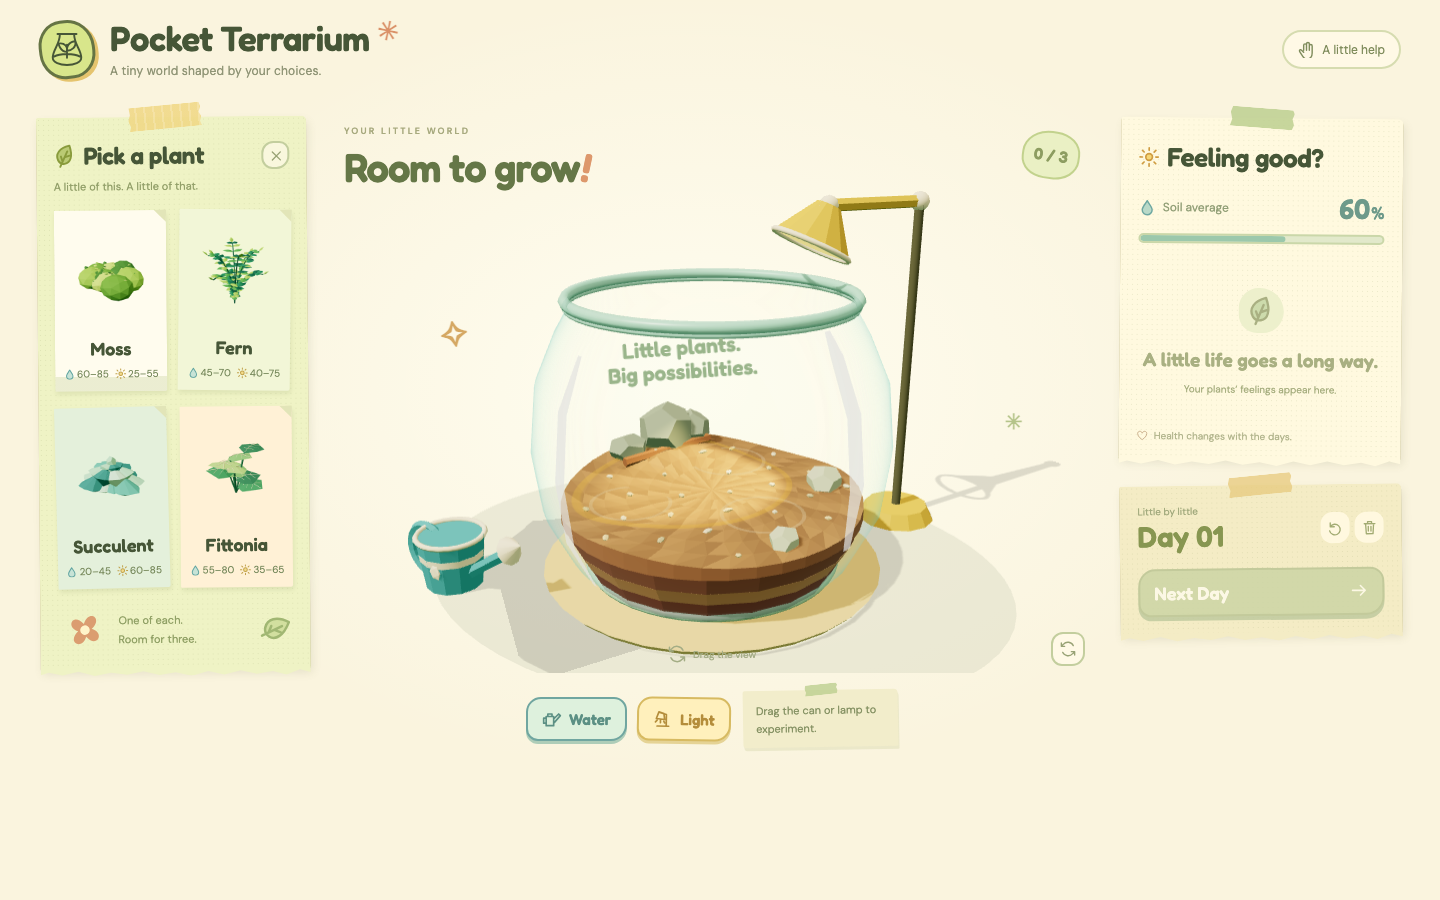
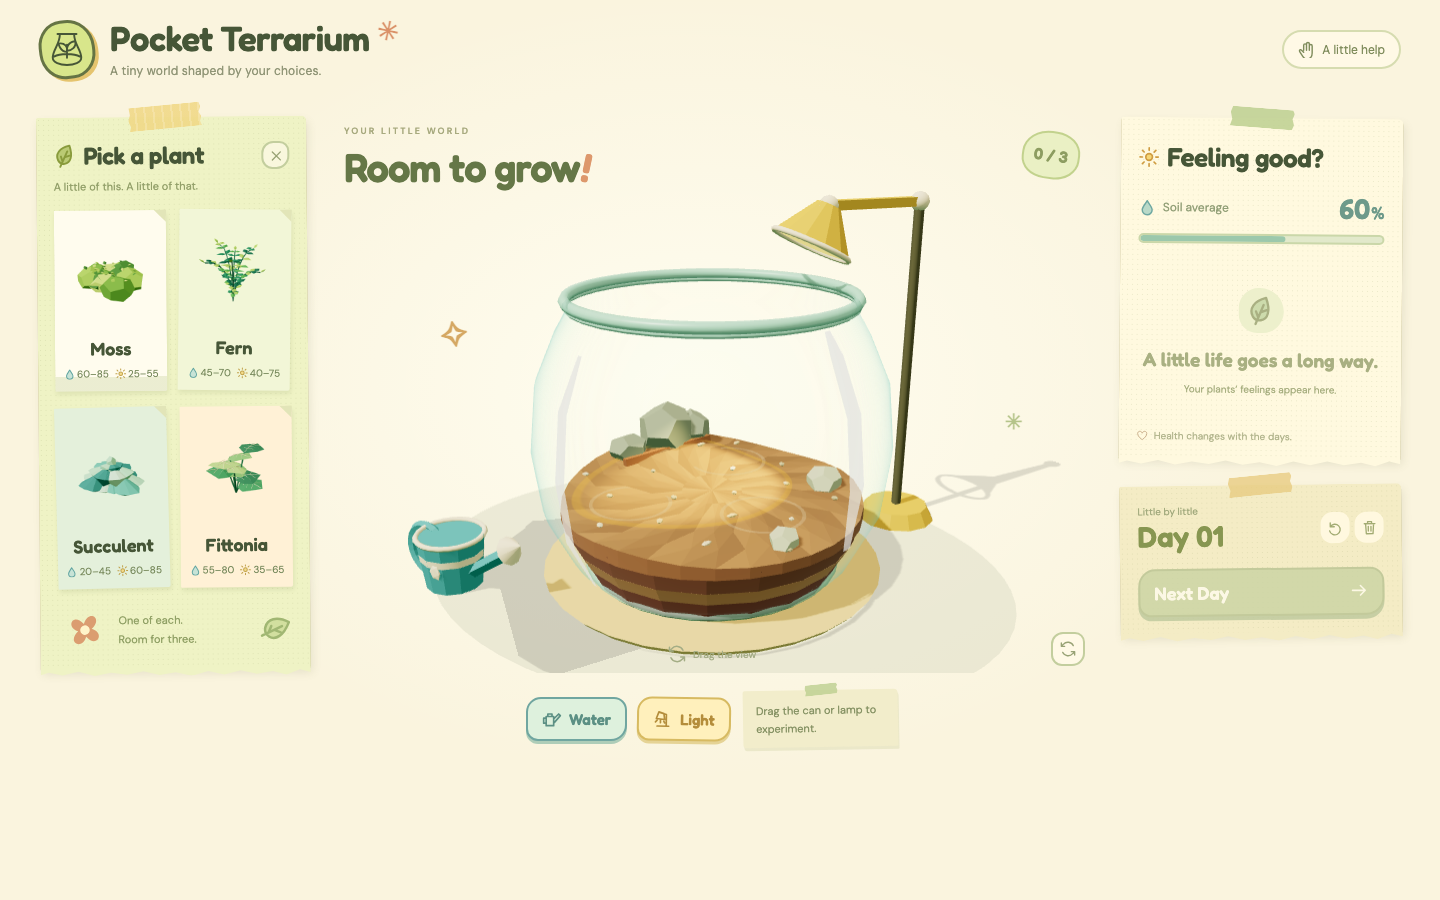
fix: preserve Retina clarity and simplify miniature geometry

diff --git a/src/scene/plantFactory.js b/src/scene/plantFactory.js
@@ -8,9 +8,9 @@ const palettes = {
 };
 const up = new THREE.Vector3(0, 1, 0),
   axis = new THREE.Vector3(1, 0, 0);
-const sphere = new THREE.IcosahedronGeometry(1, 1),
+const sphere = new THREE.DodecahedronGeometry(1, 0),
   smallStone = new THREE.DodecahedronGeometry(1, 0),
-  stemGeometry = new THREE.CylinderGeometry(1, 1, 1, 6);
+  stemGeometry = new THREE.CylinderGeometry(1, 1, 1, 4);
 // A closed, thick blade with a raised midrib. The root is at x=0, tip at x=1.
 function bladeGeometry(wide = false) {
   const w = wide ? 0.35 : 0.21;
@@ -24,9 +24,12 @@ function bladeGeometry(wide = false) {
     [0.45, wide ? 0.105 : 0.15, 0],
     [0.45, -0.07, 0],
   ];
+  // Thin fern blades need fewer outline vertices than broad Fittonia leaves.
+  if (!wide) points.splice(1, 5, [0.5, 0.035, -w], [1, 0, 0], [0.5, 0.035, w]);
+  const ring = points.length - 2;
   const faces = [];
-  for (let i = 0; i < 6; i++) {
-    faces.push(6, (i + 1) % 6, i, 7, i, (i + 1) % 6);
+  for (let i = 0; i < ring; i++) {
+    faces.push(ring, (i + 1) % ring, i, ring + 1, i, (i + 1) % ring);
   }
   const positions = faces.flatMap((i) => points[i]);
   const geometry = new THREE.BufferGeometry();
@@ -147,9 +150,9 @@ export function createPlant(species, { ghost = false } = {}) {
       }
     }
   } else if (species === "fern") {
-    for (let i = 0; i < 8; i++) {
+    for (let i = 0; i < 6; i++) {
       const frond = new THREE.Group();
-      frond.rotation.y = (i * Math.PI * 2) / 8 + 0.2;
+      frond.rotation.y = (i * Math.PI * 2) / 6 + 0.2;
       root.add(frond);
       const h = [1.1, 1.45, 1.25, 1.58, 1.28, 1.42, 1.1, 1.52][i],
         reach = [0.73, 0.57, 0.76, 0.45, 0.7, 0.62, 0.8, 0.5][i];
@@ -159,9 +162,9 @@ export function createPlant(species, { ghost = false } = {}) {
         new THREE.Vector3(reach * 0.45, h * 1.04, 0),
         new THREE.Vector3(reach, h, 0),
       );
-      mesh(new THREE.TubeGeometry(curve, 12, 0.012, 5, false), stemMat, frond);
-      for (let j = 1; j <= 8; j++) {
-        const t = j / 9,
+      mesh(new THREE.TubeGeometry(curve, 8, 0.012, 4, false), stemMat, frond);
+      for (let j = 1; j <= 7; j++) {
+        const t = j / 8,
           p = curve.getPoint(t),
           length = 0.27 * Math.sin(Math.PI * t) ** 0.7 + 0.025;
         for (const side of [-1, 1]) {
@@ -173,7 +176,7 @@ export function createPlant(species, { ghost = false } = {}) {
             0.23,
             0,
             i + j,
-            i >= 6 && j <= 2,
+            i >= 5 && j <= 2,
           );
           pivot.quaternion.setFromUnitVectors(
             axis,
@@ -247,9 +250,9 @@ export function createPlant(species, { ghost = false } = {}) {
         mesh(
           new THREE.TubeGeometry(
             new THREE.CatmullRomCurve3(ridge),
-            8,
-            0.005,
             4,
+            0.005,
+            3,
             false,
           ),
           vein,

diff --git a/src/ui/uiController.js b/src/ui/uiController.js
@@ -18,7 +18,7 @@ export function createUI(root) {
      "",
    )}</div><div class="collection-bottom"><span class="doodle-flower">${flower}</span><span>One of each.<br>Room for three.</span><span class="little-sprout">${icon("leaf")}</span></div></aside><button id="collection-open" class="collection-open" type="button" aria-label="Open plants and preferences" aria-controls="plant-collection" aria-expanded="true" hidden>${icon("leaf")}Plants</button></div>
  <section class="terrarium-column" aria-labelledby="terrarium-title"><div class="scene-heading"><div><span class="small-kicker">YOUR LITTLE WORLD</span><h2 id="terrarium-title">Room to grow<span>!</span></h2></div><span id="plant-count" class="count-sticker">0 / 3</span></div>
- <div id="scene-container" class="scene-container"><span class="scene-spark spark-one" aria-hidden="true">✧</span><span class="scene-spark spark-two" aria-hidden="true">✳</span><div id="placement-preview" class="placement-preview" role="status" hidden></div><div id="scene-empty" class="scene-empty"><p>Little plants.<br>Big possibilities.</p></div><button id="camera-reset" class="camera-reset icon-button" type="button" title="Reset view" aria-label="Reset view">${icon("rotate")}</button><span class="orbit-hint">${icon("rotate")}Drag the view</span><div id="scene-loading" class="scene-loading">Making a little room for nature…</div></div>
+ <div id="scene-container" class="scene-container"><span class="scene-spark spark-one" aria-hidden="true">✧</span><span class="scene-spark spark-two" aria-hidden="true">✳</span><div id="placement-preview" class="placement-preview" role="status" hidden></div><button id="camera-reset" class="camera-reset icon-button" type="button" title="Reset view" aria-label="Reset view">${icon("rotate")}</button><span class="orbit-hint">${icon("rotate")}Drag the view</span><div id="scene-loading" class="scene-loading">Making a little room for nature…</div></div>
  <div class="tool-dock"><div class="tool-buttons"><button id="water-button" type="button" class="tool-button water-tool" aria-pressed="false">${icon("can")}Water</button><button id="lamp-button" type="button" class="tool-button lamp-tool" aria-pressed="false">${icon("lamp")}Light</button></div><p id="tool-hint">Drag the can or lamp to experiment.</p><button id="tool-close" class="icon-button" type="button" title="Put tool away" aria-label="Put tool away" hidden>${icon("close")}</button></div>
  <div id="lamp-controls" class="lamp-controls" hidden>${[
    ["azimuth", "Orbit", -180, 180, 1],
@@ -79,7 +79,6 @@ export function createUI(root) {
       "aria-valuenow",
       Math.round(state.soilMoisture),
     );
-    $("#scene-empty").hidden = state.plants.length > 0 || !!selected || !!tool;
     $("#next-day").disabled = state.plants.length < 2 || busy;
     $("#next-day").title =
       state.plants.length < 2 ? "Add two plants to begin" : "";

diff --git a/src/scene/createScene.js b/src/scene/createScene.js
@@ -18,7 +18,7 @@ export function createScene(container, getState) {
       alpha: true,
       powerPreference: "high-performance",
     });
-  renderer.setPixelRatio(Math.min(devicePixelRatio, 1.25));
+  renderer.setPixelRatio(Math.min(devicePixelRatio, 2));
   renderer.setClearColor(0xf9f5dc, 0);
   renderer.shadowMap.enabled = true;
   renderer.shadowMap.autoUpdate = false;
@@ -64,7 +64,7 @@ export function createScene(container, getState) {
   key.shadow.bias = -0.0002;
   scene.add(key);
   const ground = new THREE.Mesh(
-    new THREE.PlaneGeometry(100, 100),
+    new THREE.PlaneGeometry(8, 8),
     new THREE.ShadowMaterial({ opacity: 0.12 }),
   );
   ground.rotation.x = -Math.PI / 2;
@@ -96,8 +96,7 @@ export function createScene(container, getState) {
     frame = 0,
     until = 0,
     alive = true,
-    last = performance.now(),
-    recentFrameTimes = [];
+    last = performance.now();
   const reducedMotion = matchMedia("(prefers-reduced-motion: reduce)").matches;
   const target = new THREE.Vector3();
   function invalidate(duration = 350) {
@@ -150,28 +149,7 @@ export function createScene(container, getState) {
     frame = 0;
     if (!alive || document.hidden) return;
     const frameTime = now - last;
-    // Reduce only the 3D drawing resolution when sustained frames are slow.
-    // Long idle/background gaps are excluded; DOM text remains at full resolution.
-    if (frameTime < 200 && frameTime > 0) {
-      recentFrameTimes.push(frameTime);
-      if (recentFrameTimes.length >= 12) {
-        const average =
-          recentFrameTimes.reduce((sum, t) => sum + t, 0) /
-          recentFrameTimes.length;
-        const ratio = renderer.getPixelRatio();
-        const nextRatio =
-          average > 45
-            ? Math.min(ratio, 0.85)
-            : average > 28
-              ? Math.min(ratio, 1)
-              : ratio;
-        if (nextRatio !== ratio) {
-          renderer.setPixelRatio(nextRatio);
-          resize();
-        }
-        recentFrameTimes.length = 0;
-      }
-    }
+    // Keep drawing resolution stable, including during slow frames and gestures.
     const dt = Math.min(frameTime / 1000, 0.05),
       alpha = reducedMotion ? 1 : 1 - Math.exp(-dt * 10);
     last = now;

diff --git a/src/scene/terrarium.js b/src/scene/terrarium.js
@@ -48,7 +48,7 @@ export function createTerrarium(scene) {
   );
   const decorations = [];
   const gravel = [mat(0xe6c78e), mat(0xc3b384), mat(0xebd8ae)];
-  for (let i = 0; i < 27; i++) {
+  for (let i = 0; i < 15; i++) {
     const a = i * 2.39996,
       r = 0.92 + (i % 3) * 0.07,
       item = add(new THREE.DodecahedronGeometry(1, 0), gravel[i % 3], [
@@ -61,8 +61,8 @@ export function createTerrarium(scene) {
     decorations.push(item);
   }
   const points = [[0, surfaceHeight(0, 0), 0]];
-  const radial = 7,
-    segments = 40;
+  const radial = 5,
+    segments = 32;
   for (let r = 1; r <= radial; r++)
     for (let j = 0; j < segments; j++) {
       const a = (j / segments) * Math.PI * 2 + (r % 2) * 0.028,
@@ -175,9 +175,9 @@ export function createTerrarium(scene) {
       twigMat,
     ),
   );
-  for (let i = 0; i < 28; i++) {
+  for (let i = 0; i < 18; i++) {
     const a = i * 2.39996,
-      r = Math.sqrt((i + 0.5) / 28) * 1.18,
+      r = Math.sqrt((i + 0.5) / 18) * 1.18,
       x = Math.cos(a) * r,
       z = Math.sin(a) * r;
     const pebble = add(new THREE.IcosahedronGeometry(1, 0), gravel[i % 3], [
@@ -229,7 +229,12 @@ export function createTerrarium(scene) {
     [1.135, 2.26, 0.022],
     [1.045, 0.1, 0.032],
   ]) {
-    const item = add(new THREE.TorusGeometry(r, t, 6, 48), rimMat, [0, y, 0]);
+    // Keep the visible opening smooth; simplify the secondary and bottom rings.
+    const item = add(
+      new THREE.TorusGeometry(r, t, y === 2.31 ? 6 : 4, y === 2.31 ? 48 : 32),
+      rimMat,
+      [0, y, 0],
+    );
     item.rotation.x = Math.PI / 2;
     item.castShadow = false;
     item.renderOrder = 7;

diff --git a/src/styles/main.css b/src/styles/main.css
@@ -479,21 +479,6 @@ h3 {
   font-size: 22px;
   color: #b5c48a;
 }
-.scene-empty {
-  position: absolute;
-  z-index: 2;
-  left: 46%;
-  top: 35%;
-  text-align: center;
-  transform: translate(-50%, -50%) rotate(-4deg);
-  pointer-events: none;
-}
-.scene-empty p {
-  font-family: Fredoka, sans-serif;
-  font-size: 21px;
-  line-height: 1.15;
-  color: #9ab58b;
-}
 .orbit-hint {
   position: absolute;
   bottom: 10px;
@@ -1322,13 +1307,6 @@ dialog p {
   }
   .scene-container {
     height: 340px;
-  }
-  .scene-empty p {
-    font-size: 17px;
-  }
-  .scene-empty {
-    top: 38%;
-    left: 45%;
   }
   .spark-one {
     left: 4%;

diff --git a/docs/performance.md b/docs/performance.md
@@ -1,18 +1,20 @@
-# Paper desk performance check
+# Rendering clarity and performance
 
-Recorded locally on 2026-10-20 with headless Playwright Chromium, a 1440 × 900 viewport, device scale factor 2, and Moss, Fittonia and Fern. Both versions rendered 12,854 triangles. The fitted UI also changes canvas dimensions, so these numbers measure the complete revision rather than an isolated GPU microbenchmark.
+The current revision keeps the canvas at the device pixel ratio, capped at 2, during gestures and slow frames. The earlier adaptive resolution policy caused visible blur and has been removed. Instead, small blades, stems, veins, soil subdivisions, gravel and secondary rims were simplified. The main glass lip and curved wall keep their smooth outlines. The empty-jar slogan was removed.
 
-| Diagnostic | Before | After |
-| --- | ---: | ---: |
-| Main-view draw calls | 375 | 85 |
-| Triangles | 12,854 | 12,854 |
-| Canvas pixel ratio | 1.75 | 1 (adapted from cap 1.25) |
-| Drawing-buffer pixels | 1,500,150 | 493,506 |
-| Median animation-frame interval | 66.6 ms | 32.4 ms |
-| 95th percentile frame interval | 67.0 ms | 33.4 ms |
+Recorded locally on 2026-10-20 with headless Playwright Chromium, a 1440 × 900 viewport, device scale factor 2, and Moss, Fittonia and Fern:
 
-Repeated leaves and veins use instanced drawing while their existing pivots still control health and growth. Static gravel is merged by material. Shadow maps update when light/casters change, not on every camera frame. Hover no longer runs a raycast whose result was unused. Static scenes park and hidden tabs stop rendering. Sustained slow frames can reduce the 3D drawing resolution without lowering HTML text resolution.
+| Diagnostic | Original | Previous adaptive revision | Current clarity revision |
+| --- | ---: | ---: | ---: |
+| Main-view draw calls | 375 | 85 | 83 |
+| Triangles | 12,854 | 12,854 | 8,270 |
+| Canvas pixel ratio | 1.75 | 1 | 2 |
+| Drawing-buffer pixels | 1,500,150 | 493,506 | 1,976,076 |
+| Median animation-frame interval | 66.6 ms | 32.4 ms | 50.0 ms |
+| 95th percentile frame interval | 67.0 ms | 33.4 ms | 66.7 ms |
 
-Frame intervals include browser scheduling and headless graphics overhead. They are diagnostic measurements, not a promised frame rate on every Mac. Run `npm run test:performance` against the development server to reproduce the current representative scene; generated JSON is stored in the ignored `test-results/` folder.
+The current revision restores four times the pixels of the adaptive benchmark and reduces geometry by about 36%. Its headless frame interval is higher than the blurred version and lower than the original. The fitted UI also changes canvas dimensions, so these numbers compare complete revisions rather than an isolated GPU microbenchmark. Frame intervals include browser scheduling and headless graphics overhead; they are not a promised frame rate on every physical Mac.
 
-The revision also passed 18 simulation checks, 22 browser acceptance checks and a separate layout/drawer workflow covering 1440×900, 1366×768, 1280×720, 1024×768, 1280×600, 1024×500 and 390×844. Layout captures were visually inspected. Production build succeeds. These are developer checks, not student usability research.
+Repeated leaves and veins still use instanced drawing while existing pivots control health and growth. Static gravel remains merged by material. Shadows update when light/casters change, rather than every camera frame. Hover avoids unused raycasts, static scenes park and hidden tabs stop rendering. The shadow-receiving floor is limited to the local scene.
+
+Run `npm run test:performance` against the development server. The check asserts a stable device pixel ratio through slow frames, a geometry budget and batched draw calls; generated JSON and a Retina screenshot go into the ignored `test-results/` folder. Simulation and real-browser acceptance checks cover the existing water, light, planting, movement, reset and day mechanics. These are developer checks, not student usability research.

diff --git a/README.md b/README.md
@@ -55,7 +55,7 @@ Lamp geometry, spotlight, footprint and numeric light calculation share the same
 - `src/scene/plantFactory.js`: four procedural models, thick custom leaf geometry, growth/health poses and shared-model thumbnails.
 - `src/scene/terrarium.js`: faceted terrain, continuous soil sides, gravel and stylized Fresnel glass.
 - `src/scene/lamp.js`, `wateringCan.js`, `footprint.js`: articulated tools, real spotlight, target footprints and water animation.
-- `src/scene/createScene.js`: renderer/camera and animation; cached shadows, idle/background suspension and adaptive 3D resolution.
+- `src/scene/createScene.js`: renderer/camera and animation; cached shadows, idle/background suspension and stable device-resolution rendering.
 - `src/scene/meshBatching.js`: instanced leaves/veins and merged static gravel; original plant pivots drive growth and health.
 - `src/interactions/plantDrag.js`: raycasting, plant/water/lamp gestures, cancellation and alternatives.
 - `src/ui/`, `src/styles/main.css`, `src/styles/desk.css`: paper panels, delayed sliding drawer, right-side day controls and viewport-fitted layout.
@@ -66,6 +66,6 @@ Lamp geometry, spotlight, footprint and numeric light calculation share the same
 
 The latest refinement used the **3dviz-pro-max** object, material, lighting and inspection guidance with custom Three.js geometry/shaders; no catalog kit or external model was used. Supplied references were visual guidance only. Locally bundled fonts retain their OFL licenses.
 
-The paper-desk refinement preserves model triangles while batching repeated leaves, veins and gravel. A representative Moss/Fittonia/Fern scene dropped from 375 to 85 draw calls at the same 1440 × 900 viewport. Shadows update when objects/light change; hover no longer raycasts needlessly. The renderer caps pixel ratio at 1.25 and can lower only the 3D drawing resolution to 1 or 0.85 on sustained slow frames. HTML text stays sharp. Frame timings from headless Chromium are diagnostic, not a promised frame rate on every Mac. See [the performance comparison](docs/performance.md).
+The paper-desk refinement batches repeated leaves, veins and gravel, caches shadows and avoids unused hover raycasts. The clarity revision reduces the representative Moss/Fittonia/Fern scene from 12,854 to 8,270 triangles while keeping the glass opening smooth. Rendering now stays at the device pixel ratio (capped at 2), including during slow frames; it no longer automatically lowers canvas resolution. The empty-jar slogan has been removed. Frame timings from headless Chromium are diagnostic, not a promised frame rate on every Mac. See [the performance comparison](docs/performance.md).
 
 Safari, Firefox, physical touch devices, older-Mac performance and real student usability sessions remain unverified. This simplified ecology omits moisture diffusion, leaf/root competition, physical fluids and calibrated plant-care science. There is no persistence: reload begins a fresh experiment.

diff --git a/PROCESS.md b/PROCESS.md
@@ -64,3 +64,11 @@ Record actual feedback, evidence, and resulting changes here. Do not substitute 
 - Replaced immediate collection hiding with a 1.4-second pause and a 420 ms slide, retaining a narrow Plants tab. The canvas resizes after the slide rather than reallocating its drawing buffer on every animation frame. Reopening/Reset cancels pending timers; reduced-motion preferences skip the slide. Hovering or using keys in the collection cancels pending automatic closure.
 - Kept the page within the viewport, with compact notes for short windows and a drawer for narrow windows. Fixed control-row occupancy after a real drag check exposed that newly revealed controls moved the soil target during a gesture.
 - Passed all 18 simulation tests, 22 real-browser acceptance checks, the seven-size layout/animated-drawer workflow and the representative rendering-budget check. Inspected expanded, collapsed, sliding, short-window and mobile frames and regenerated application screenshots. Production build succeeds. No student user-testing results are claimed.
+
+## Clarity correction · 2026-10-20
+
+- The user reported blur after adaptive resolution optimization. Removed that behavior and restored a stable device pixel ratio capped at 2. Slow frames no longer reduce the drawing-buffer resolution.
+- Reduced the representative three-plant scene from 12,854 to 8,270 triangles by simplifying small blades, stems, veins, soil subdivisions, gravel and secondary rims. Preserved the broad leaf shapes, plant heights, main rim and curved glass wall. Restricted the shadow floor to the local scene. Instancing, cached shadows and idle/background suspension remain active.
+- Removed the “Little plants. Big possibilities.” text and its unused styling from the empty jar.
+- The Retina benchmark measured 83 draws, a stable ratio of 2 and a 50 ms median frame interval in headless Chromium. This restores four times the pixels of the prior adaptive benchmark with an explicit sharpness/performance tradeoff, recorded in docs/performance.md.
+- Passed the 18 simulation checks, all 22 browser acceptance checks, production build and the Retina slow-frame clarity/budget regression. Inspected the actual 2880 × 1800 capture and regenerated application screenshots. No JavaScript or WebGL errors were observed in the browser workflow.
